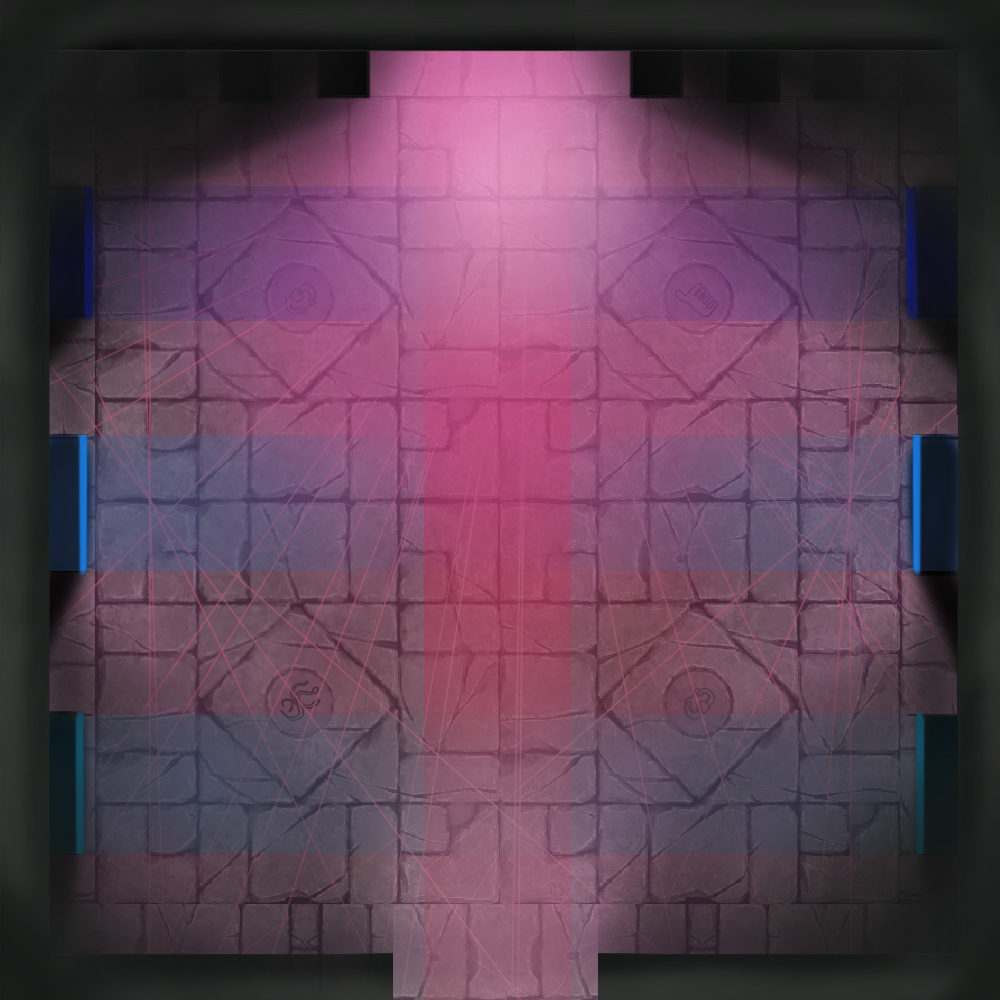
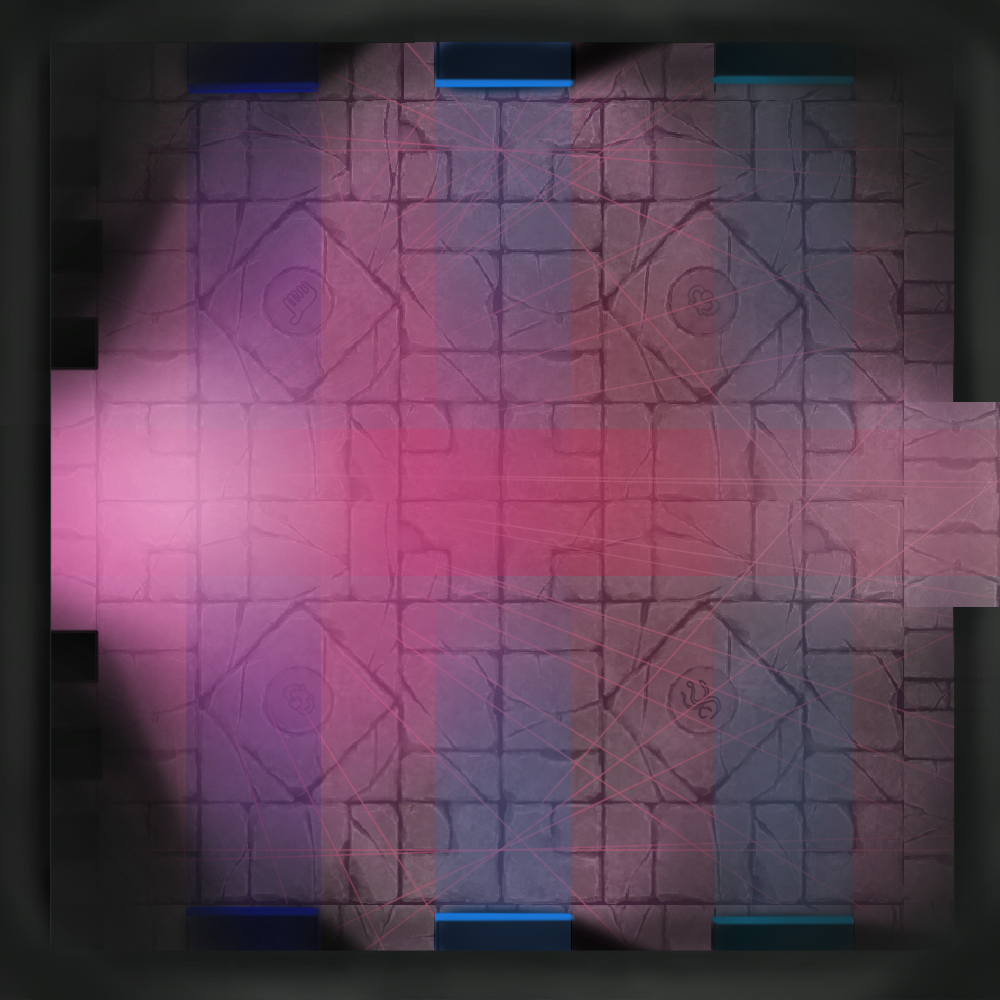
adjust rooms and arrows

diff --git a/RoC/src/de/dhbw/ravensburg/zuul/ui/GameApplication.java b/RoC/src/de/dhbw/ravensburg/zuul/ui/GameApplication.java
@@ -546,10 +546,10 @@ public class GameApplication extends Application {
 				robin = game.getPlayer().getPlayerSprite();
 				
 				initializeRoomGoup();
-				west = new Sprite(w*0.05, h*0.4, 0.0, 0.0, w*0.1, h*0.8);	
-				east = new Sprite(w*0.95, h*0.4, 0.0, 0.0, w*0.1, h*0.8);
-				north = new Sprite(w*0.4, h*0.05, 0.0, 0.0, w*0.8, h*0.1);
-				south = new Sprite(w*0.4, h*0.95, 0.0, 0.0, w*0.8, h*0.1);
+				west = new Sprite(0.0, h*0.1, 0.0, 0.0, w*0.1, h*0.8);	
+				east = new Sprite(w*0.9, h*0.1, 0.0, 0.0, w*0.1, h*0.8);
+				north = new Sprite(w*0.1, 0.0, 0.0, 0.0, w*0.8, h*0.1);
+				south = new Sprite(w*0.1, h*0.9, 0.0, 0.0, w*0.8, h*0.1);
 				up = new Sprite(goUpRectangle.getX(), goUpRectangle.getY(), 0.0, 0.0, goUpRectangle.getWidth(), goUpRectangle.getHeight());
 				down = new Sprite(goDownRectangle.getX(), goDownRectangle.getY(), 0.0, 0.0, goDownRectangle.getWidth(), goDownRectangle.getHeight());
 				
@@ -557,13 +557,13 @@ public class GameApplication extends Application {
 				food = new Image("Images/Item/Meat.PNG", w/15, w/15, false, false);
 				uStairs = new Image("Images/Misc/stairs_UP2.PNG", goUpRectangle.getWidth(), goUpRectangle.getHeight(), false, false);
 				dStairs = new Image("Images/Misc/stairs_down.PNG", goDownRectangle.getWidth(), goDownRectangle.getHeight(), false, false);
-				eArrow = new Image("Images/Misc/Arrow_EAST.png", w*0.025, h*0.2, false, false);
-				wArrow = new Image("Images/Misc/Arrow_WEST.png", w*0.025, h*0.2, false, false);
-				nArrow = new Image("Images/Misc/Arrow_NORTH.png", w*0.2, h*0.025, false, false);
-				sArrow = new Image("Images/Misc/Arrow_SOUTH.png", w*0.2, h*0.025, false, false);
+				eArrow = new Image("Images/Misc/Arrow_EAST.png", w*0.1, h*0.8, false, false);
+				wArrow = new Image("Images/Misc/Arrow_WEST.png", w*0.1, h*0.8, false, false);
+				nArrow = new Image("Images/Misc/Arrow_NORTH.png", w*0.8, h*0.1, false, false);
+				sArrow = new Image("Images/Misc/Arrow_SOUTH.png", w*0.8, h*0.1, false, false);
 				uArrow = new Image("Images/Misc/Arrow_UP_DOWN.png", w*0.1, h*0.2, false, false);
 				dArrow = new Image("Images/Misc/Arrow_UP_DOWN.png", w*0.1, h*0.2, false, false);
-				
+
 				root.getChildren().add(goRoomGroup);
 				
 				initializeImageViews();
@@ -683,7 +683,7 @@ public class GameApplication extends Application {
 				
 				
 //				dialogText.setText("Nice to meet you foreign. My name is Freitag and i see you are in trouble. "
-//						+ "I saw how you ship sunk and you almost died in the water but thanks to god you are alive. "
+//						+ "I saw how your ship sunk and you almost died in the water but thanks to god you are alive. "
 //						+ "You are on a island and i believe you want to escape from here. "
 //						+ "Hmmm.... To escape you need a new boat. I think you can find on this island everything what you need to build a new one."
 //						+ " You can ask the Natives on the island, they will know where you can find your equipment. "

diff --git a/RoC/src/de/dhbw/ravensburg/zuul/room/RoomType.java b/RoC/src/de/dhbw/ravensburg/zuul/room/RoomType.java
@@ -1,5 +1,5 @@
 package de.dhbw.ravensburg.zuul.room;
 
 public enum RoomType {
-	EMPTY_ROOM, FOREST_VERTICAL, FOREST_HORIZONTAL, FOREST_NORTH, RUIN, RUIN_LABORATORY, RUIN_DUNGEON, RUIN_MAGE, RUIN_LIBRARY, RUIN_TOP, RUIN_BASEMENT, BEACH_WEST, BEACH_EAST, BEACH_NORTH, BEACH_SOUTH, FINISH, REDWOOD, FOREST_SOUTHWEST, FOREST_NORTHWESTSOUTH, FOREST_SOUTHWEST2, RUIN_ENTRANCE_WEST, RUIN_ENTRANCE_EAST, RUIN_ENTRANCE_NORTH, RUIN_ENTRANCE_SOUTH;
+	EMPTY_ROOM, FOREST_VERTICAL, FOREST_HORIZONTAL, FOREST_NORTH, RUIN, RUIN_LABORATORY, RUIN_DUNGEON, RUIN_MAGE, RUIN_LIBRARY, RUIN_TOP, RUIN_BASEMENT, BEACH_WEST, BEACH_EAST, BEACH_NORTH, BEACH_SOUTH, FINISH, REDWOOD, FOREST_SOUTHWEST, FOREST_NORTHWESTSOUTH, FOREST_SOUTHWEST2, RUIN_ENTRANCE_WEST, RUIN_ENTRANCE_EAST, RUIN_ENTRANCE_NORTH, RUIN_ENTRANCE_SOUTH, RUIN_STAIRCASE_1;
 }

diff --git a/RoC/src/de/dhbw/ravensburg/zuul/Map.java b/RoC/src/de/dhbw/ravensburg/zuul/Map.java
@@ -74,7 +74,7 @@ public class Map {
 		
 		ruinStairCase0 = new Ruin("in the ruins: Staircase", null, RoomType.RUIN);
 		map.add(ruinStairCase0);
-		ruinStairCase1 = new Ruin("in the ruins: Staircase", null, RoomType.RUIN);
+		ruinStairCase1 = new Ruin("in the ruins: Staircase", null, RoomType.RUIN_STAIRCASE_1);
 		map.add(ruinStairCase1);
 		
 		ruinWatchTower = new Ruin("on the top of the Watchtower", null, RoomType.RUIN_TOP, new RoomKey("Key to the Library"));
